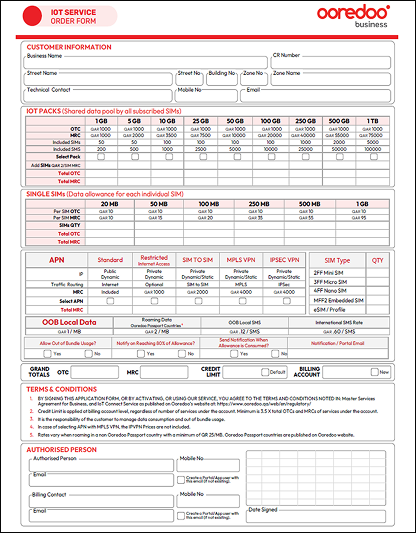
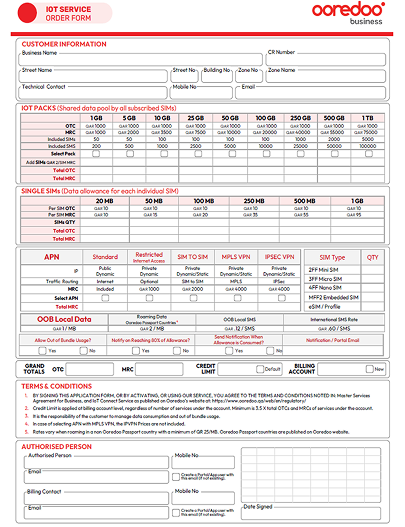
Polish Operational Optimization dashboard and form images
- Wrap Dashboard1/Dashboard2 in rounded thin-bordered boxes with padding
- Wrap OldForm/NewForm in matching rounded thin-bordered boxes with padding

diff --git a/projects/operational-optimization.html b/projects/operational-optimization.html
@@ -142,10 +142,14 @@
       </div>
 
       <div style="display:flex;gap:12px;margin-top:16px;margin-bottom:20px;justify-content:center;">
-        <img src="../images/OldForm.png" alt="Old Form" style="width:40%;display:block;">
+        <div style="border:1px solid var(--border);border-radius:10px;padding:8px;width:40%;">
+          <img src="../images/OldForm.png" alt="Old Form" style="width:100%;display:block;border-radius:6px;">
+        </div>
         <div style="display:flex;align-items:center;flex-shrink:0;padding:0 8px;font-size:20px;color:var(--muted);">
           &#8594;</div>
-        <img src="../images/NewForm.png" alt="New Form" style="width:40%;display:block;">
+        <div style="border:1px solid var(--border);border-radius:10px;padding:8px;width:40%;">
+          <img src="../images/NewForm.png" alt="New Form" style="width:100%;display:block;border-radius:6px;">
+        </div>
       </div>
 
 
@@ -247,10 +251,12 @@
           </div>
         </div>
         <div style="margin-top:16px;display:flex;flex-direction:column;gap:12px;">
-          <img src="../images/Dashboard1.png" alt="Executive Dashboard 1"
-            style="width:100%;display:block;border:4px solid #555;">
-          <img src="../images/Dashboard2.png" alt="Executive Dashboard 2"
-            style="width:100%;display:block;border:4px solid #555;">
+          <div style="border:1px solid var(--border);border-radius:10px;padding:8px;">
+            <img src="../images/Dashboard1.png" alt="Executive Dashboard 1" style="width:100%;display:block;border-radius:6px;">
+          </div>
+          <div style="border:1px solid var(--border);border-radius:10px;padding:8px;">
+            <img src="../images/Dashboard2.png" alt="Executive Dashboard 2" style="width:100%;display:block;border-radius:6px;">
+          </div>
         </div>
       </div>
 
